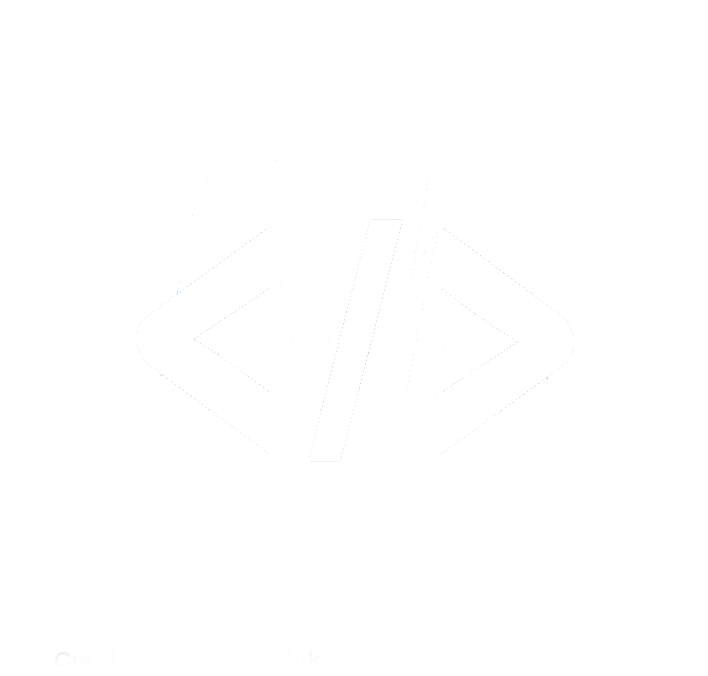
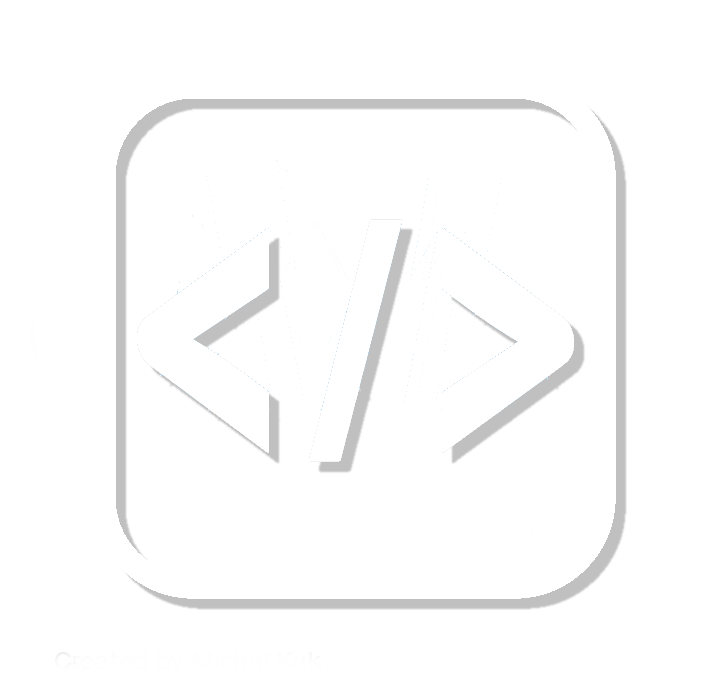
More changes: * Modified caret color back to original. * Added product sites links * Removed about page link * Added drop shadows

diff --git a/source/stylesheets/hashicorp.css b/source/stylesheets/hashicorp.css
@@ -193,12 +193,12 @@ h a s h i c o r p
 .cruciblehook-icon {
   background: url(/images/nav-cruciblehook.png) 0 0 no-repeat;
   background-image: url("/images/nav-cruciblehook.png");
-  background-size: 36px 40px;
+  background-size: 31px 40px;
 }
 @media only screen and (-webkit-min-device-pixel-ratio: 2), only screen and (min--moz-device-pixel-ratio: 2), only screen and (-o-min-device-pixel-ratio: 2/1), only screen and (min-device-pixel-ratio: 2), only screen and (min-resolution: 192dpi), only screen and (min-resolution: 2dppx) {
   .cruciblehook-icon {
     background-image: url("/images/nav-cruciblehook@2x.png");
-    background-size: 36px 40px;
+    background-size: 31px 40px;
   }
 }
 .search-icon {
@@ -2170,24 +2170,24 @@ div.align-center {
 #products #products-nav li.cruciblehook a {
   background: url(/images/nav-cruciblehook-active.png) center -80px no-repeat;
   background-image: url("/images/nav-cruciblehook-active.png");
-  background-size: 36px 40px;
+  background-size: 31px 40px;
 }
 @media only screen and (-webkit-min-device-pixel-ratio: 2), only screen and (min--moz-device-pixel-ratio: 2), only screen and (-o-min-device-pixel-ratio: 2/1), only screen and (min-device-pixel-ratio: 2), only screen and (min-resolution: 192dpi), only screen and (min-resolution: 2dppx) {
   #products #products-nav li.cruciblehook a {
     background-image: url("/images/nav-cruciblehook-active@2x.png");
-    background-size: 36px 40px;
+    background-size: 31px 40px;
   }
 }
 #products #products-nav li.cruciblehook a i {
-  width: 36px;
+  width: 31px;
   background: url(/images/nav-cruciblehook.png) 0 0 no-repeat;
   background-image: url("/images/nav-cruciblehook.png");
-  background-size: 36px 40px;
+  background-size: 31px 40px;
 }
 @media only screen and (-webkit-min-device-pixel-ratio: 2), only screen and (min--moz-device-pixel-ratio: 2), only screen and (-o-min-device-pixel-ratio: 2/1), only screen and (min-device-pixel-ratio: 2), only screen and (min-resolution: 192dpi), only screen and (min-resolution: 2dppx) {
   #products #products-nav li.cruciblehook a i {
     background-image: url("/images/nav-cruciblehook@2x.png");
-    background-size: 36px 40px;
+    background-size: 31px 40px;
   }
 }
 #products #products-nav li.autowatch a {
@@ -2287,8 +2287,8 @@ div.align-center {
   color: #822ff7;
 }
 #products #products-display .sourceeditor .black-caret-right {
-  background: url(/images/black-caret-right.png) 0 0 no-repeat;
-  background-image: url("/images/black-caret-right.png");
+  background: url(/images/sourceeditor-caret-right.png) 0 0 no-repeat;
+  background-image: url("/images/sourceeditor-caret-right.png");
   background-size: 6px 9px;
 }
 @media only screen and (-webkit-min-device-pixel-ratio: 2), only screen and (min--moz-device-pixel-ratio: 2), only screen and (-o-min-device-pixel-ratio: 2/1), only screen and (min-device-pixel-ratio: 2), only screen and (min-resolution: 192dpi), only screen and (min-resolution: 2dppx) {
@@ -2312,13 +2312,13 @@ div.align-center {
   color: #428bca;
 }
 #products #products-display .editor .black-caret-right {
-  background: url(/images/black-caret-right.png) 0 0 no-repeat;
-  background-image: url("/images/black-caret-right.png");
+  background: url(/images/editor-caret-right.png) 0 0 no-repeat;
+  background-image: url("/images/editor-caret-right.png");
   background-size: 6px 9px;
 }
 @media only screen and (-webkit-min-device-pixel-ratio: 2), only screen and (min--moz-device-pixel-ratio: 2), only screen and (-o-min-device-pixel-ratio: 2/1), only screen and (min-device-pixel-ratio: 2), only screen and (min-resolution: 192dpi), only screen and (min-resolution: 2dppx) {
   #products #products-display .editor .black-caret-right {
-    background-image: url("/images/black-caret-right@2x.png");
+    background-image: url("/images/editor-caret-right@2x.png");
     background-size: 6px 9px;
   }
 }
@@ -2337,13 +2337,13 @@ div.align-center {
   color: #dd4e58;
 }
 #products #products-display .navigator .black-caret-right {
-  background: url(/images/black-caret-right.png) 0 0 no-repeat;
-  background-image: url("/images/black-caret-right.png");
+  background: url(/images/navigator-caret-right.png) 0 0 no-repeat;
+  background-image: url("/images/navigator-caret-right.png");
   background-size: 6px 9px;
 }
 @media only screen and (-webkit-min-device-pixel-ratio: 2), only screen and (min--moz-device-pixel-ratio: 2), only screen and (-o-min-device-pixel-ratio: 2/1), only screen and (min-device-pixel-ratio: 2), only screen and (min-resolution: 192dpi), only screen and (min-resolution: 2dppx) {
   #products #products-display .navigator .black-caret-right {
-    background-image: url("/images/black-caret-right@2x.png");
+    background-image: url("/images/navigator-caret-right@2x.png");
     background-size: 6px 9px;
   }
 }
@@ -2362,13 +2362,13 @@ div.align-center {
   color: #dd4e58;
 }
 #products #products-display .markdown .black-caret-right {
-  background: url(/images/black-caret-right.png) 0 0 no-repeat;
-  background-image: url("/images/black-caret-right.png");
+  background: url(/images/markdown-caret-right.png) 0 0 no-repeat;
+  background-image: url("/images/markdown-caret-right.png");
   background-size: 6px 9px;
 }
 @media only screen and (-webkit-min-device-pixel-ratio: 2), only screen and (min--moz-device-pixel-ratio: 2), only screen and (-o-min-device-pixel-ratio: 2/1), only screen and (min-device-pixel-ratio: 2), only screen and (min-resolution: 192dpi), only screen and (min-resolution: 2dppx) {
   #products #products-display .markdown .black-caret-right {
-    background-image: url("/images/black-caret-right@2x.png");
+    background-image: url("/images/markdown-caret-right@2x.png");
     background-size: 6px 9px;
   }
 }
@@ -2387,13 +2387,13 @@ div.align-center {
   color: #00bfe0;
 }
 #products #products-display .cruciblehook .black-caret-right {
-  background: url(/images/black-caret-right.png) 0 0 no-repeat;
-  background-image: url("/images/black-caret-right.png");
+  background: url(/images/cruciblehook-caret-right.png) 0 0 no-repeat;
+  background-image: url("/images/cruciblehook-caret-right.png");
   background-size: 6px 9px;
 }
 @media only screen and (-webkit-min-device-pixel-ratio: 2), only screen and (min--moz-device-pixel-ratio: 2), only screen and (-o-min-device-pixel-ratio: 2/1), only screen and (min-device-pixel-ratio: 2), only screen and (min-resolution: 192dpi), only screen and (min-resolution: 2dppx) {
   #products #products-display .cruciblehook .black-caret-right {
-    background-image: url("/images/black-caret-right@2x.png");
+    background-image: url("/images/cruciblehook-caret-right@2x.png");
     background-size: 6px 9px;
   }
 }
@@ -2412,13 +2412,13 @@ div.align-center {
   color: #428bca;
 }
 #products #products-display .autowatch .black-caret-right {
-  background: url(/images/black-caret-right.png) 0 0 no-repeat;
-  background-image: url("/images/black-caret-right.png");
+  background: url(/images/autowatch-caret-right.png) 0 0 no-repeat;
+  background-image: url("/images/autowatch-caret-right.png");
   background-size: 6px 9px;
 }
 @media only screen and (-webkit-min-device-pixel-ratio: 2), only screen and (min--moz-device-pixel-ratio: 2), only screen and (-o-min-device-pixel-ratio: 2/1), only screen and (min-device-pixel-ratio: 2), only screen and (min-resolution: 192dpi), only screen and (min-resolution: 2dppx) {
   #products #products-display .autowatch .black-caret-right {
-    background-image: url("/images/black-caret-right@2x.png");
+    background-image: url("/images/autowatch-caret-right@2x.png");
     background-size: 6px 9px;
   }
 }
@@ -2437,13 +2437,13 @@ div.align-center {
   color: #1ddba3;
 }
 #products #products-display .search .black-caret-right {
-  background: url(/images/black-caret-right.png) 0 0 no-repeat;
-  background-image: url("/images/black-caret-right.png");
+  background: url(/images/search-caret-right.png) 0 0 no-repeat;
+  background-image: url("/images/search-caret-right.png");
   background-size: 6px 9px;
 }
 @media only screen and (-webkit-min-device-pixel-ratio: 2), only screen and (min--moz-device-pixel-ratio: 2), only screen and (-o-min-device-pixel-ratio: 2/1), only screen and (min-device-pixel-ratio: 2), only screen and (min-resolution: 192dpi), only screen and (min-resolution: 2dppx) {
   #products #products-display .search .black-caret-right {
-    background-image: url("/images/black-caret-right@2x.png");
+    background-image: url("/images/search-caret-right@2x.png");
     background-size: 6px 9px;
   }
 }

diff --git a/source/stylesheets/less/_index.less b/source/stylesheets/less/_index.less
@@ -284,10 +284,10 @@ div {
             &.cruciblehook{
                 a{
                     background: url(/images/nav-cruciblehook-active.png) center -80px no-repeat;
-                    .img-retina("/images/nav-cruciblehook-active.png", "/images/nav-cruciblehook-active@2x.png", 36px, 40px);
+                    .img-retina("/images/nav-cruciblehook-active.png", "/images/nav-cruciblehook-active@2x.png", 31px, 40px);
 
                     i{
-                        width: 36px;
+                        width: 31px;
                         .cruciblehook-icon();
                     }
                 }
@@ -366,8 +366,8 @@ div {
                 color: @sourceeditor-color;
             }
             .black-caret-right{
-                background: url(/images/black-caret-right.png) 0 0 no-repeat;
-                .img-retina("/images/black-caret-right.png", "/images/black-caret-right@2x.png", 6px, 9px);
+                background: url(/images/sourceeditor-caret-right.png) 0 0 no-repeat;
+                .img-retina("/images/sourceeditor-caret-right.png", "/images/black-caret-right@2x.png", 6px, 9px);
             }
         }
 
@@ -381,8 +381,8 @@ div {
                 color: @editor-color;
             }
             .black-caret-right{
-                background: url(/images/black-caret-right.png) 0 0 no-repeat;
-                .img-retina("/images/black-caret-right.png", "/images/black-caret-right@2x.png", 6px, 9px);
+                background: url(/images/editor-caret-right.png) 0 0 no-repeat;
+                .img-retina("/images/editor-caret-right.png", "/images/editor-caret-right@2x.png", 6px, 9px);
             }
         }
 
@@ -395,8 +395,8 @@ div {
                 color: @navigator-color;
             }
             .black-caret-right{
-                background: url(/images/black-caret-right.png) 0 0 no-repeat;
-                .img-retina("/images/black-caret-right.png", "/images/black-caret-right@2x.png", 6px, 9px);
+                background: url(/images/navigator-caret-right.png) 0 0 no-repeat;
+                .img-retina("/images/navigator-caret-right.png", "/images/navigator-caret-right@2x.png", 6px, 9px);
             }
         }
 
@@ -409,8 +409,8 @@ div {
                 color: @markdown-color;
             }
             .black-caret-right{
-                background: url(/images/black-caret-right.png) 0 0 no-repeat;
-                .img-retina("/images/black-caret-right.png", "/images/black-caret-right@2x.png", 6px, 9px);
+                background: url(/images/markdown-caret-right.png) 0 0 no-repeat;
+                .img-retina("/images/markdown-caret-right.png", "/images/markdown-caret-right@2x.png", 6px, 9px);
             }
         }
 
@@ -424,8 +424,8 @@ div {
                 color: @cruciblehook-color;
             }
             .black-caret-right{
-                background: url(/images/black-caret-right.png) 0 0 no-repeat;
-                .img-retina("/images/black-caret-right.png", "/images/black-caret-right@2x.png", 6px, 9px);
+                background: url(/images/cruciblehook-caret-right.png) 0 0 no-repeat;
+                .img-retina("/images/cruciblehook-caret-right.png", "/images/cruciblehook-caret-right@2x.png", 6px, 9px);
             }
         }
 
@@ -438,8 +438,8 @@ div {
                 color: @editor-color;
             }
             .black-caret-right{
-                background: url(/images/black-caret-right.png) 0 0 no-repeat;
-                .img-retina("/images/black-caret-right.png", "/images/black-caret-right@2x.png", 6px, 9px);
+                background: url(/images/autowatch-caret-right.png) 0 0 no-repeat;
+                .img-retina("/images/autowatch-caret-right.png", "/images/autowatch-caret-right@2x.png", 6px, 9px);
             }
         }
 
@@ -453,8 +453,8 @@ div {
                 color: @search-color;
             }
             .black-caret-right{
-                background: url(/images/black-caret-right.png) 0 0 no-repeat;
-                .img-retina("/images/black-caret-right.png", "/images/black-caret-right@2x.png", 6px, 9px);
+                background: url(/images/search-caret-right.png) 0 0 no-repeat;
+                .img-retina("/images/search-caret-right.png", "/images/search-caret-right@2x.png", 6px, 9px);
             }
         }
 

diff --git a/source/stylesheets/less/_utilities.less b/source/stylesheets/less/_utilities.less
@@ -183,7 +183,7 @@
 }
 .cruciblehook-icon {
     background: url(/images/nav-cruciblehook.png) 0 0 no-repeat;
-    .img-retina("/images/nav-cruciblehook.png", "/images/nav-cruciblehook@2x.png", 36px, 40px);
+    .img-retina("/images/nav-cruciblehook.png", "/images/nav-cruciblehook@2x.png", 31px, 40px);
 }
 .search-icon {
     background: url(/images/nav-search.png) 0 0 no-repeat;
